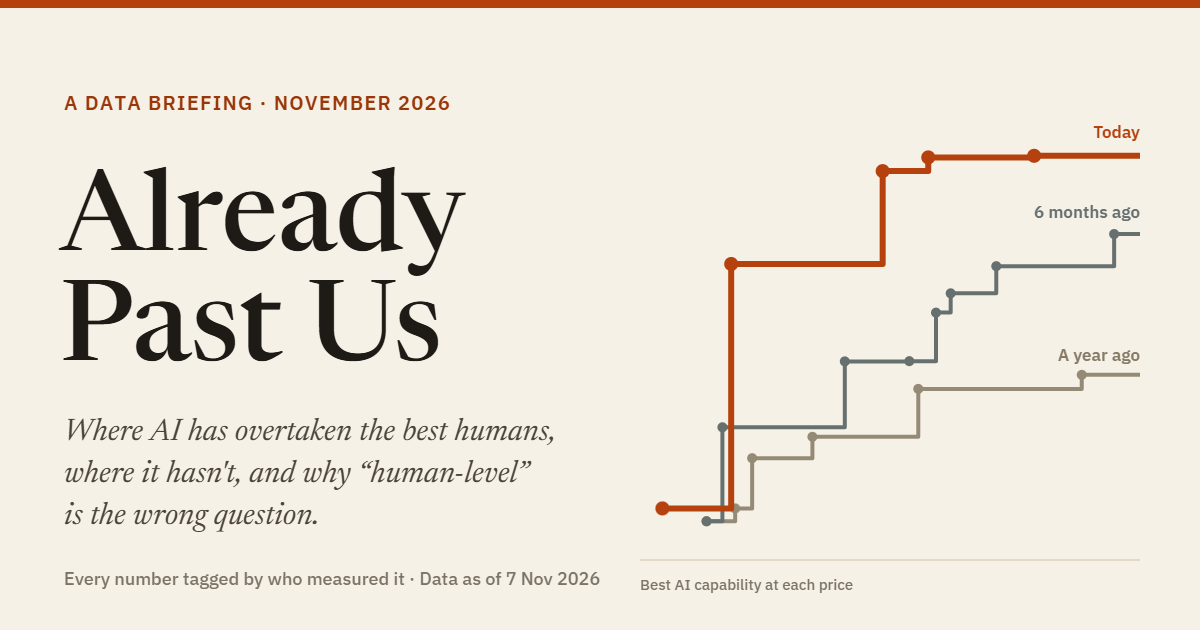
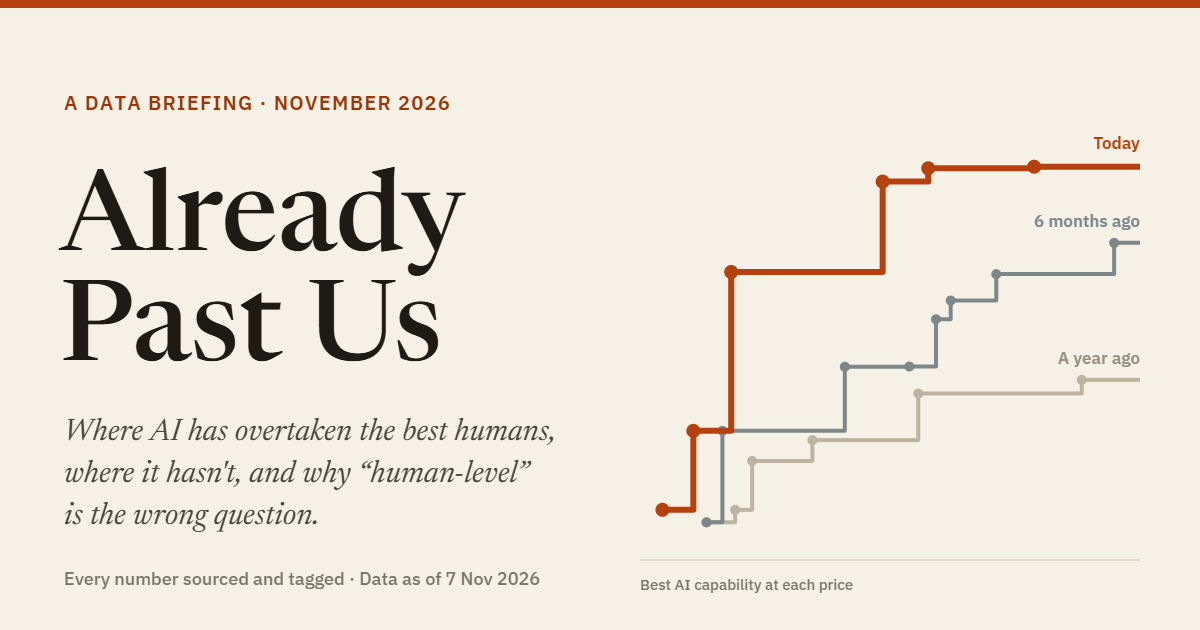
Redraw the link-preview image from current data; cache-bust its URL
public/og.png was drawn by hand on 8 Nov and missed later frontier changes.
scripts/og/render-og.mjs + og.html now draw it from
src/data/frontier_snapshots.json, and the build stamps the image's hash
into og:image so Discord, Slack and X fetch the new one.

diff --git a/scripts/og/og.html b/scripts/og/og.html
@@ -1,0 +1,40 @@
+<!doctype html><html><head><meta charset="utf-8"><title>og</title>
+<link href="https://fonts.googleapis.com/css2?family=IBM+Plex+Sans:wght@500;600&family=Newsreader:ital,opsz,wght@0,6..72,500;1,6..72,400&display=swap" rel="stylesheet">
+<style>body{margin:0;background:#222}canvas{display:block}</style></head><body><canvas id="c" width="1200" height="630"></canvas>
+<script>
+async function draw() {
+  const { lines, asOf } = await (await fetch('/data')).json()
+  await document.fonts.load('500 120px Newsreader'); await document.fonts.load('italic 400 34px Newsreader'); await document.fonts.load('600 20px "IBM Plex Sans"'); await document.fonts.load('500 18px "IBM Plex Sans"')
+  const c = document.getElementById('c'), x = c.getContext('2d')
+  x.fillStyle = '#f6f1e7'; x.fillRect(0, 0, 1200, 630)
+  // Chart, right side: price on a log scale, capability (ECI) on a linear one.
+  const all = lines.flatMap(l => l.points), eMin = Math.min(...all.map(p => p[1])), eMax = Math.max(...all.map(p => p[1]))
+  const Y_LO = Math.floor(eMin - 3), Y_HI = Math.ceil(eMax + 3)
+  const X0 = 640, X1 = 1140, Y0 = 560, Y1 = 120
+  const lx = v => X0 + (Math.log10(v) - Math.log10(0.05)) / (Math.log10(100) - Math.log10(0.05)) * (X1 - X0)
+  const ly = v => Y0 - (v - Y_LO) / (Y_HI - Y_LO) * (Y0 - Y1)
+  x.strokeStyle = '#dcd2bf'; x.lineWidth = 1.5; x.beginPath(); x.moveTo(X0, Y0); x.lineTo(X1, Y0); x.stroke()
+  const cols = ['#bdb3a1', '#7d878a', '#b5420e'], labelCols = ['#9a9080', '#7d878a', '#b5420e']
+  lines.forEach((l, k) => {
+    const today = k === lines.length - 1, pts = l.points
+    x.strokeStyle = cols[k]; x.lineWidth = today ? 6 : 4; x.lineJoin = 'round'; x.beginPath()
+    pts.forEach(([p, e], i) => { if (i === 0) x.moveTo(lx(p), ly(e)); else { x.lineTo(lx(p), ly(pts[i - 1][1])); x.lineTo(lx(p), ly(e)) } })
+    x.lineTo(X1, ly(pts.at(-1)[1])); x.stroke()
+    x.fillStyle = cols[k]; pts.forEach(([p, e]) => { x.beginPath(); x.arc(lx(p), ly(e), today ? 7 : 5, 0, 7); x.fill() })
+    x.font = '600 17px "IBM Plex Sans"'; x.textAlign = 'right'; x.fillStyle = labelCols[k]
+    x.fillText(l.label, X1, ly(pts.at(-1)[1]) - (today ? 18 : 16))
+  })
+  x.textAlign = 'left'; x.fillStyle = '#7b7366'; x.font = '500 15px "IBM Plex Sans"'
+  x.fillText('Best AI capability at each price', X0, Y0 + 30)
+  // Text, left side (kicker, title and tagline match the site's hero and og:description).
+  x.fillStyle = '#9a3709'; x.font = '600 20px "IBM Plex Sans"'; x.fillText('A DATA BRIEFING · NOVEMBER 2026'.split('').join(String.fromCharCode(8202)), 64, 110)
+  x.fillStyle = '#1e1a15'; x.font = '500 112px Newsreader'; x.fillText('Already', 60, 250); x.fillText('Past Us', 60, 360)
+  x.fillStyle = '#4b443a'; x.font = 'italic 400 31px Newsreader'
+  ;['Where AI has overtaken the best humans,', 'where it hasn\'t, and why “human-level”', 'is the wrong question.'].forEach((t, i) => x.fillText(t, 64, 440 + i * 42))
+  x.fillStyle = '#7b7366'; x.font = '500 18px "IBM Plex Sans"'; x.fillText(`Every number sourced and tagged · ${asOf}`, 64, 585)
+  x.fillStyle = '#b5420e'; x.fillRect(0, 0, 1200, 8)
+  const r = await fetch('/save', { method: 'POST', body: c.toDataURL('image/png') })
+  document.title = 'saved:' + r.status
+}
+draw()
+</script></body></html>

diff --git a/index.html b/index.html
@@ -4,7 +4,7 @@
     <meta charset="UTF-8" />
     <meta name="viewport" content="width=device-width, initial-scale=1.0" />
     <title>Already Past Us</title>
-    <meta name="description" content="AI is already beyond the best humans at some things, and still fails most real freelance projects when it works on its own. A data briefing on what the evidence says, with every number tagged by who measured it. Data as of 7 November 2026." />
+    <meta name="description" content="AI is already beyond the best humans at some things, and still fails most real freelance projects when it works on its own. A data briefing on what the evidence says, with every number sourced and tagged by who measured it. Data as of 7 November 2026." />
     <meta name="author" content="Arthur Devresse, with Claude" />
     <meta name="theme-color" content="#f6f1e7" media="(prefers-color-scheme: light)" />
     <meta name="theme-color" content="#15130f" media="(prefers-color-scheme: dark)" />
@@ -16,7 +16,7 @@
     <meta property="og:url" content="https://already-past-us.vercel.app/" />
     <meta property="og:type" content="article" />
     <meta property="og:title" content="Already Past Us" />
-    <meta property="og:description" content="Where AI has overtaken the best humans, where it hasn't, and why “human-level” is the wrong question. Every number tagged by who measured it. Data as of 7 November 2026." />
+    <meta property="og:description" content="Where AI has overtaken the best humans, where it hasn't, and why “human-level” is the wrong question. Every number sourced and tagged by who measured it. Data as of 7 November 2026." />
     <meta property="og:image" content="https://already-past-us.vercel.app/og.png" />
     <meta property="og:image:width" content="1200" />
     <meta property="og:image:height" content="630" />
@@ -35,7 +35,7 @@
         "@context": "https://schema.org",
         "@type": "Article",
         "headline": "Already Past Us",
-        "description": "AI is already beyond the best humans at some things, and still fails most real freelance projects when it works on its own. A data briefing on what the evidence says, with every number tagged by who measured it. Data as of 7 November 2026.",
+        "description": "AI is already beyond the best humans at some things, and still fails most real freelance projects when it works on its own. A data briefing on what the evidence says, with every number sourced and tagged by who measured it. Data as of 7 November 2026.",
         "datePublished": "2026-11-07",
         "dateModified": "2026-11-07",
         "author": { "@type": "Person", "name": "Arthur Devresse" },

diff --git a/CHANGELOG-manuscript.md b/CHANGELOG-manuscript.md
@@ -532,3 +532,6 @@ At the editor's request, the review rules from sections 0-2 were applied to the 
 
 ## 2026-11-09 — s9 closing line rephrased (review comment)
 - "If only the scores move, the title stays true where it is true now, and no further." became "If only the scores move, AI stays ahead only on the kinds of tasks where it already is."
+
+## 2026-11-09 — Link-preview image redrawn from current data (owner request)
+- public/og.png was hand-drawn on 8 November and had gone stale: its Today line lacked the DeepSeek-V4-Flash step ($0.11, ECI 146.86). scripts/og/render-og.mjs + og.html now draw it from src/data/frontier_snapshots.json; the build stamps og.png's hash into the og:image URL so Discord and others refetch it. Footer line and meta descriptions now say "sourced and tagged", matching the hero.
